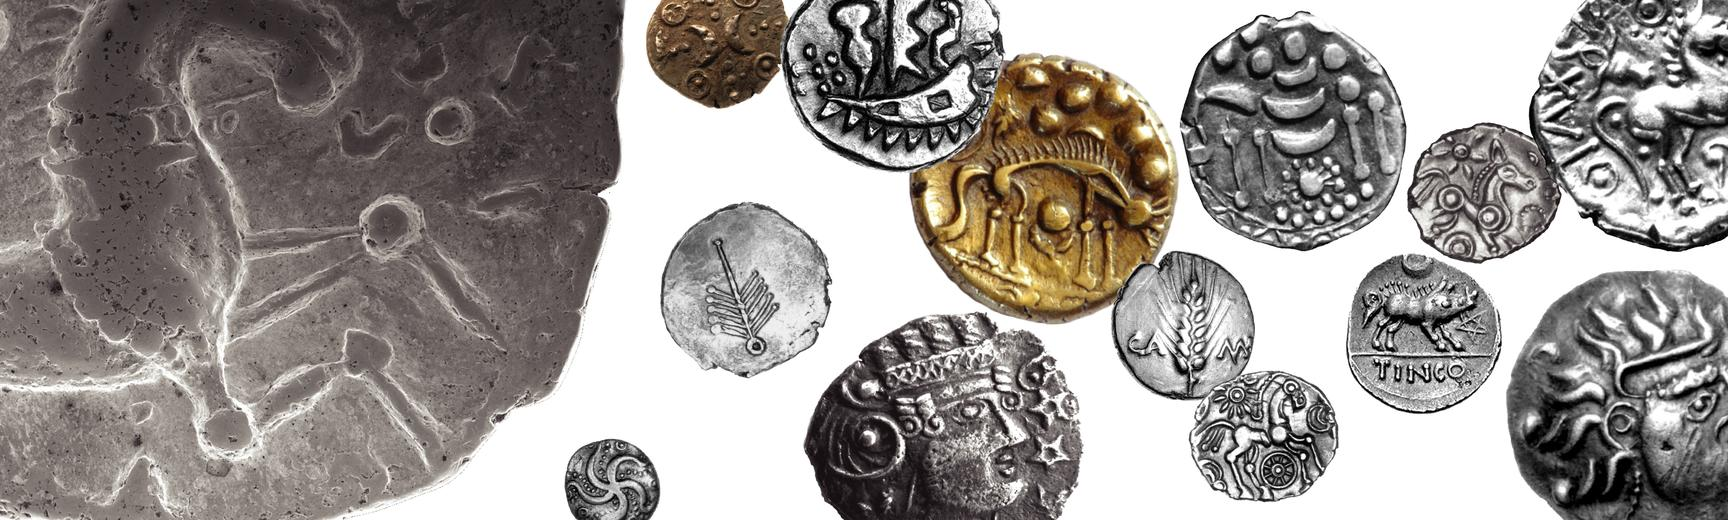
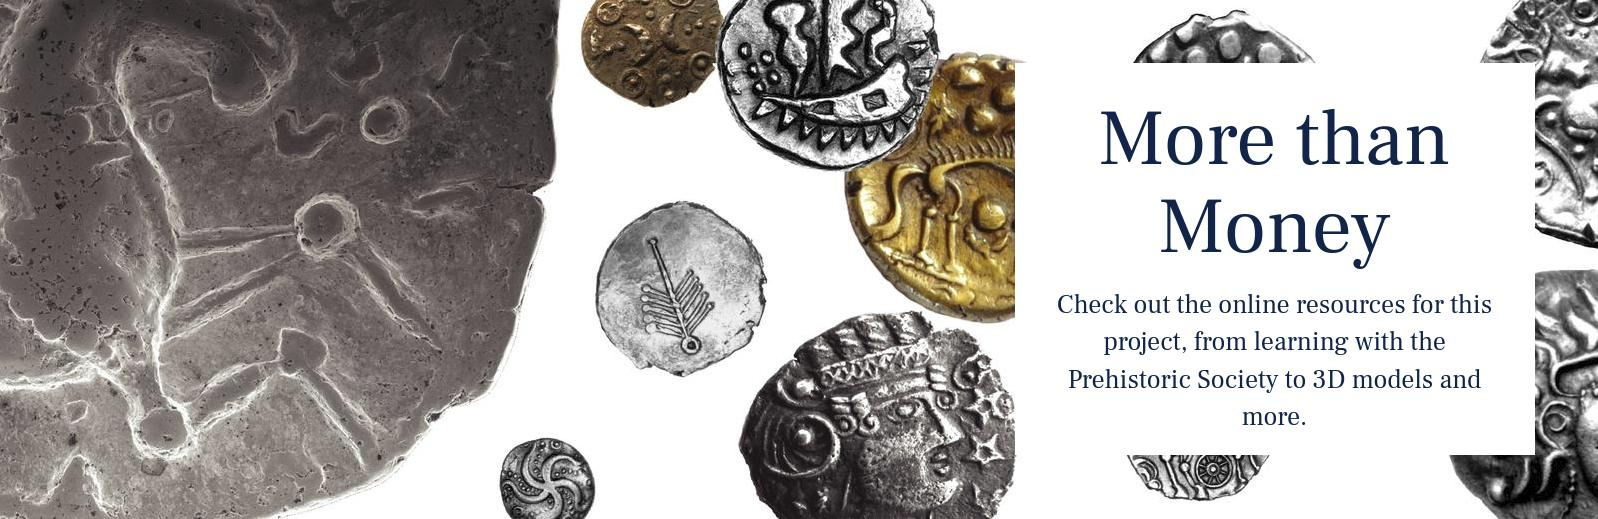
tweak

diff --git a/ui/css/style.css b/ui/css/style.css
@@ -49,21 +49,10 @@ dl.dl-rtl dd{
     margin: 20px auto;
 }
 .img-responsive{
-    width: 100%;
+    max-width: 1200px;
     max-height: 640px;
     min-height: 100%;
     object-fit: cover;
-}
-.text-box-wrapper{
-    padding: 0px;
-    margin-top: 64px;
-    margin-bottom: 0;
-    right: 64px;
-    left: auto;
-    top: 0;
-    bottom: 0;
-    width: 520px;
-    max-height: 392px;
 }
 #feedback-frame{
     width: 100%;
